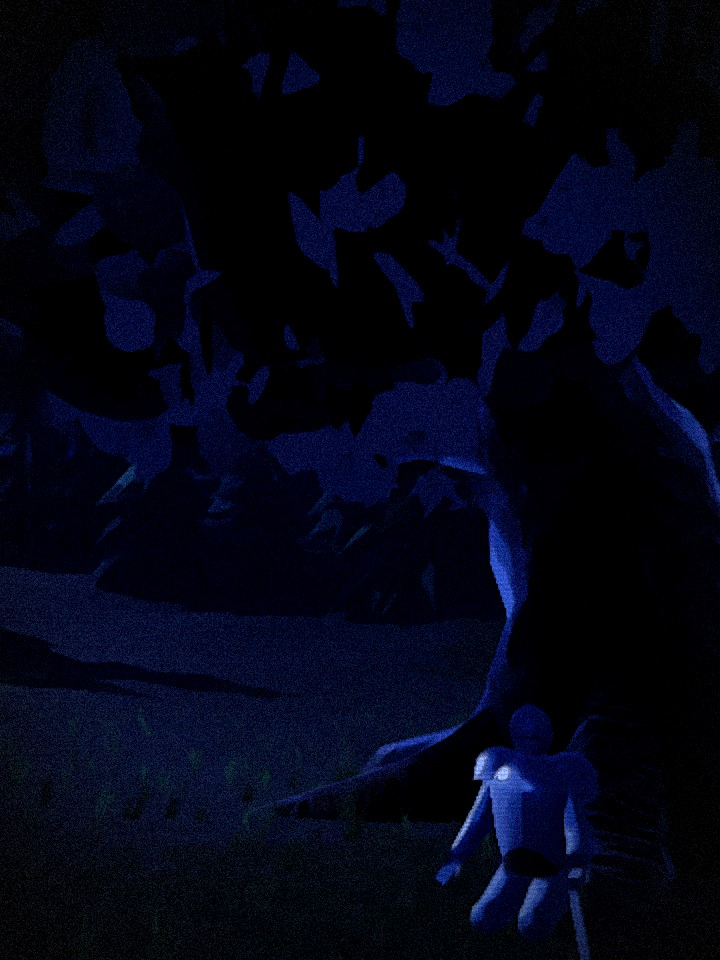
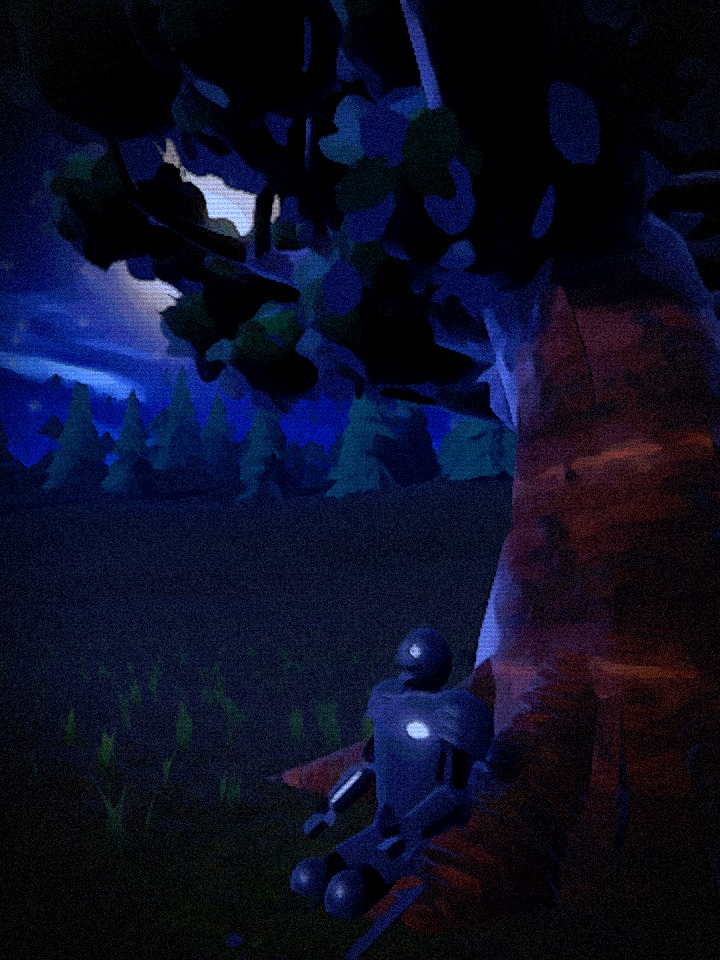
dark_11 Old Warden: 2/10 -> 5/10 (8-round cap)
- close low camera; knight leaning against a warm-barked trunk at the
  right, sky opened to the left, moon behind the canopy edge
- great_tree 'canopy' scale option; dull armour reads as steel
  (metalness 0.7) instead of grey plastic

Claude-Session: https://claude.ai/code/session_01Mb2RLxway7QKL8XNuoyDQW

diff --git a/src/world/trees.js b/src/world/trees.js
@@ -142,7 +142,7 @@ export function greatTree(ctx, o = {}) {
   const q = new THREE.Quaternion(), e = new THREE.Euler(), m = new THREE.Matrix4(), sc = new THREE.Vector3(), p = new THREE.Vector3();
   const card = new THREE.PlaneGeometry(1, 1);
   for (const t of tips) {
-    const cr = (2.2 + rand() * 1.6) * S;
+    const cr = (2.2 + rand() * 1.6) * S * (o.canopy ?? 1);
     const c = t.pos.clone().addScaledVector(t.dir, cr * 0.4);
     c.y += cr * 0.15;
     let blob = new THREE.IcosahedronGeometry(cr * 0.85, 2);
@@ -166,7 +166,7 @@ export function greatTree(ctx, o = {}) {
       p.set(r * Math.cos(a), u * 0.7, r * Math.sin(a)).multiplyScalar(cr * (0.75 + rand() * 0.35)).add(c);
       e.set(rand() * Math.PI, rand() * Math.PI, rand() * Math.PI);
       q.setFromEuler(e);
-      const s = (0.55 + rand() * 0.5) * S;
+      const s = (0.55 + rand() * 0.5) * S * Math.sqrt(o.canopy ?? 1);
       m.compose(p, q, sc.set(s, s, s));
       const g = card.clone().applyMatrix4(m);
       // normals point away from the cluster centre for soft, rounded shading

diff --git a/src/world/characters.js b/src/world/characters.js
@@ -33,7 +33,7 @@ export function armorMaterial(assets, color = 0xb4aed0, dull = false) {
   if (dull) {
     return cached(`armorDull:${color}`, () => {
       const t = assets.pbr('metal_plate', [2, 2], { color: false });
-      return stylize(new THREE.MeshStandardMaterial({ color, metalness: 0.3, roughness: 0.6, roughnessMap: t.roughnessMap, normalMap: t.normalMap, normalScale: new THREE.Vector2(0.5, 0.5), envMapIntensity: 0.45 }), { rim: 0.35, rimPower: 3 });
+      return stylize(new THREE.MeshStandardMaterial({ color, metalness: 0.7, roughness: 0.45, roughnessMap: t.roughnessMap, normalMap: t.normalMap, normalScale: new THREE.Vector2(0.5, 0.5), envMapIntensity: 0.45 }), { rim: 0.35, rimPower: 3 });
     });
   }
   return cached(`armor:${color}`, () => {
